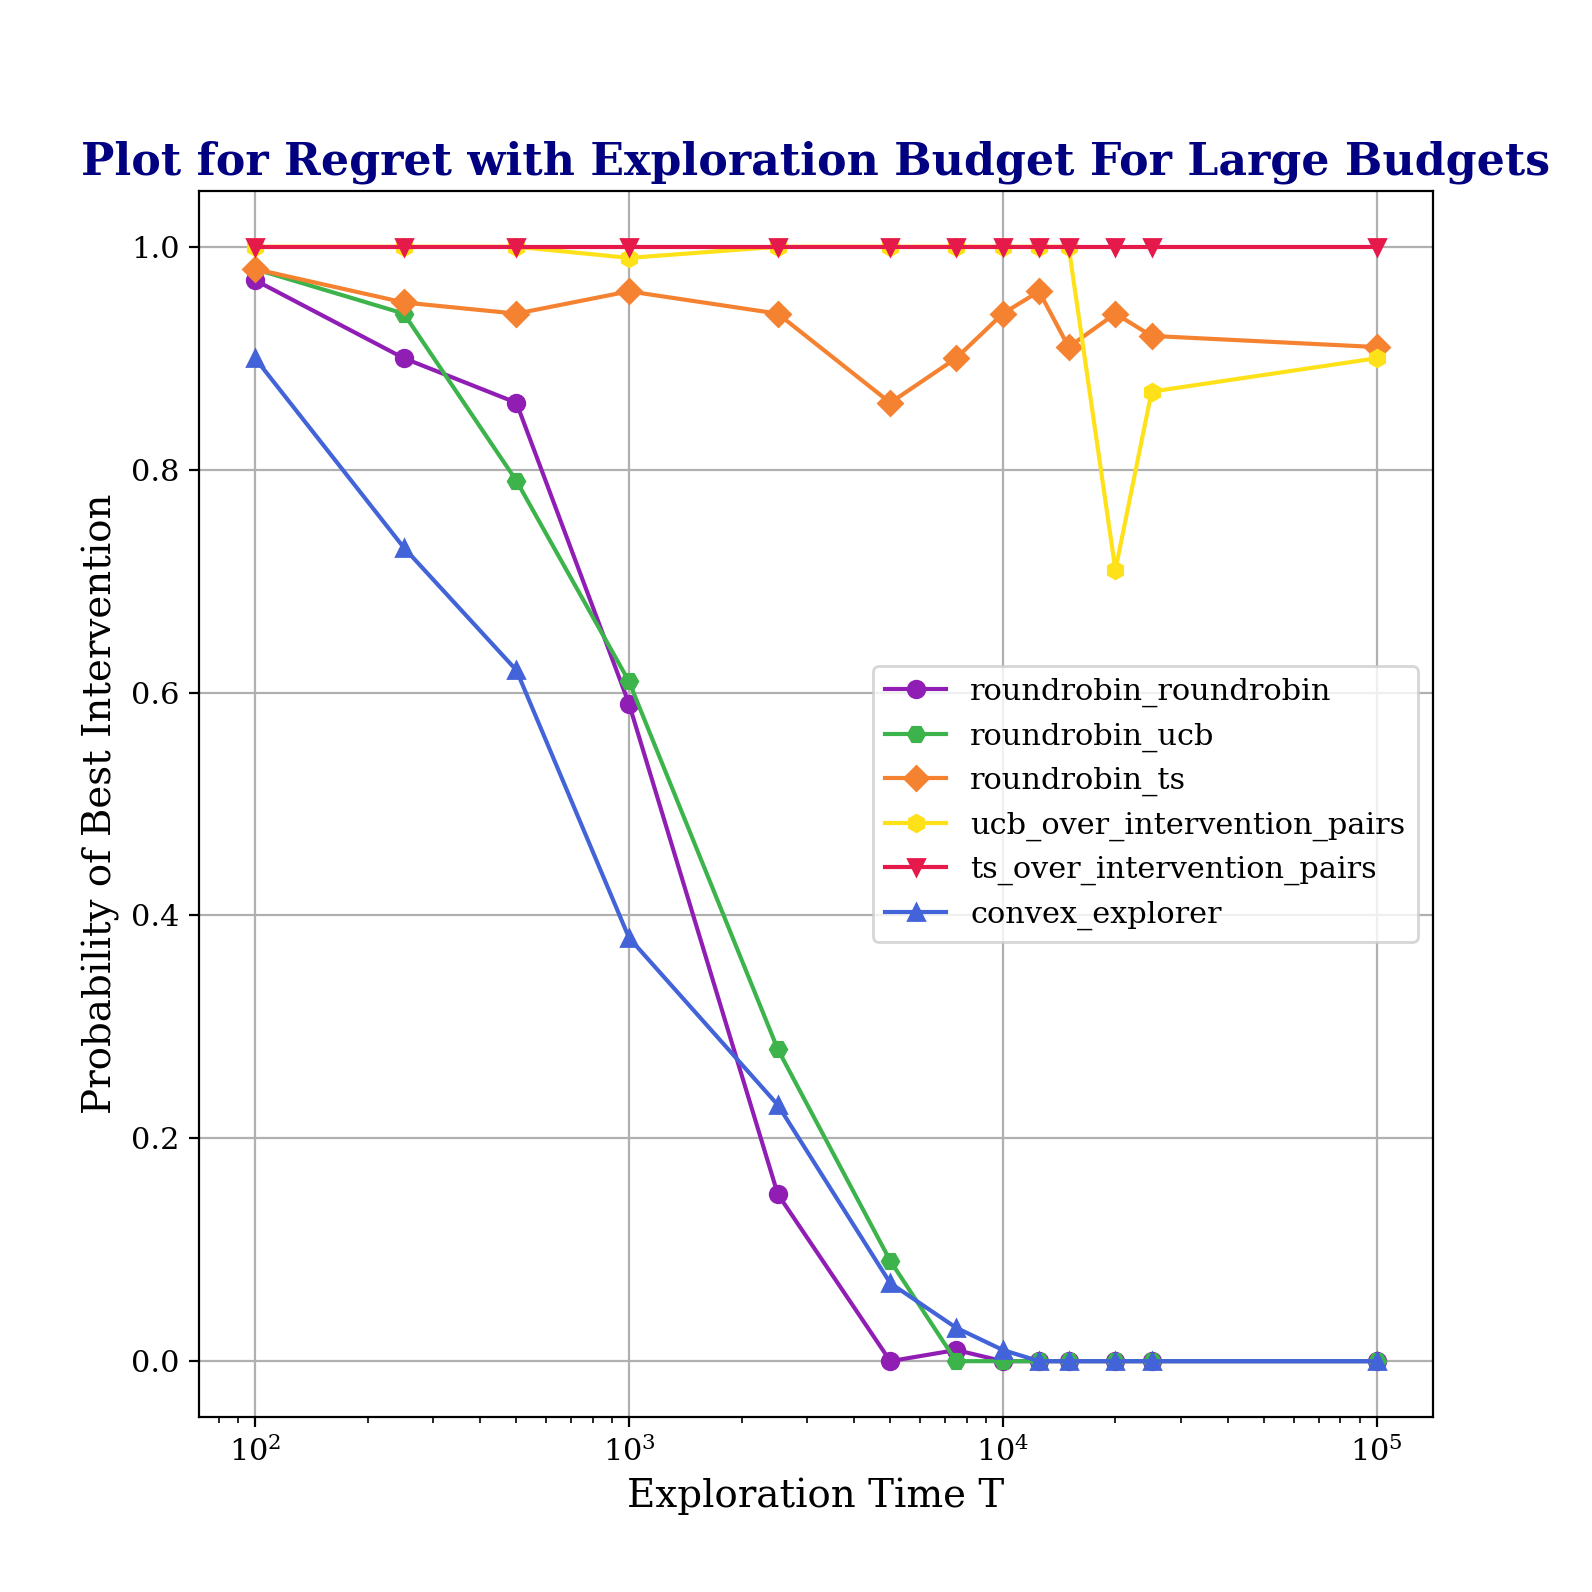
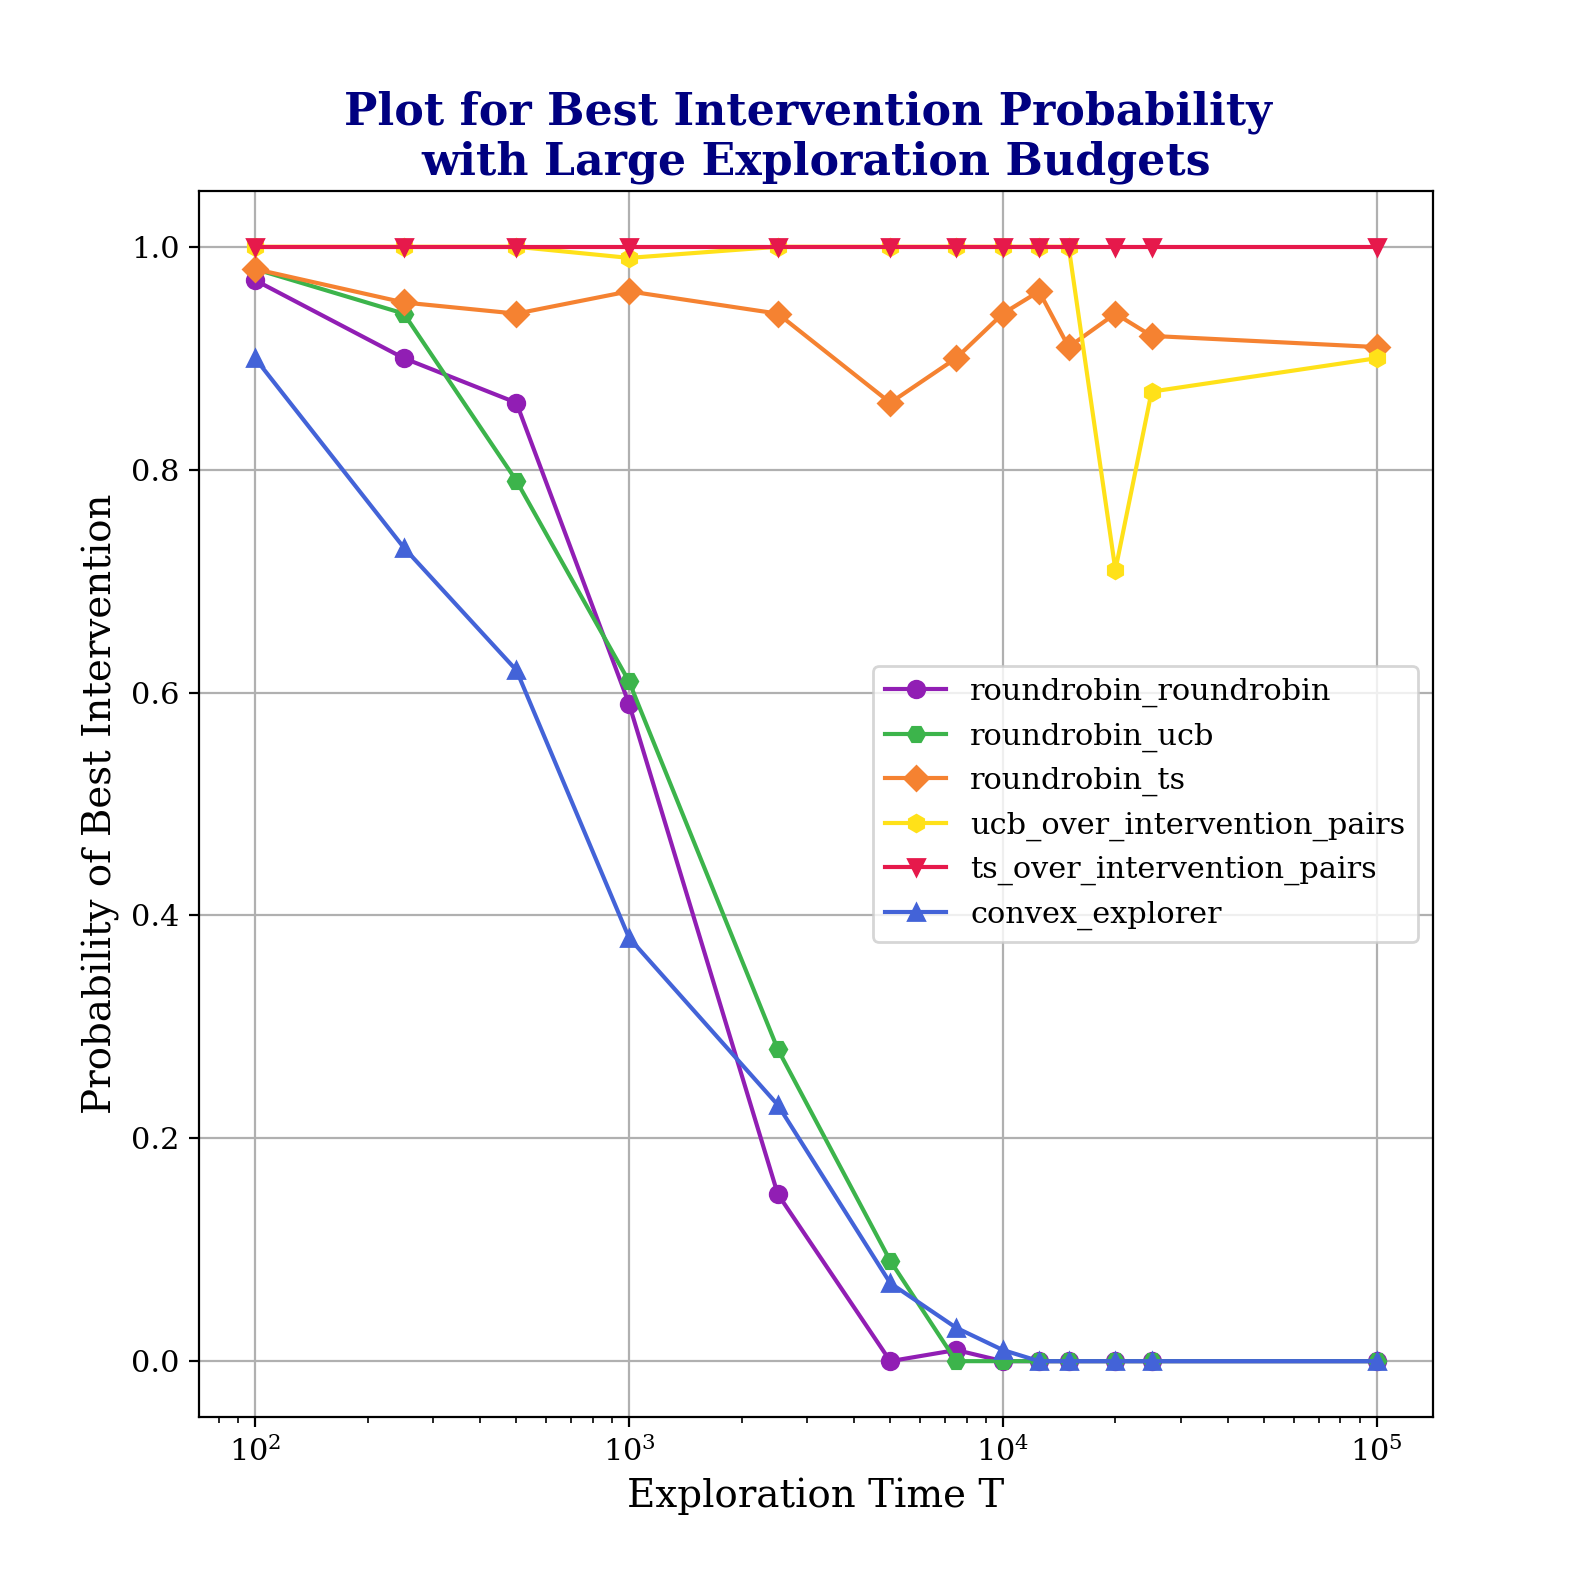
modified plots

Changed region(s): [[0.0308, 0.0616, 0.9849, 0.1231]]

diff --git a/run_plotters.py b/run_plotters.py
@@ -11,7 +11,7 @@ if __name__ == "__main__":
                                 x_axis_label_in_data="exploration_budget",
                                 label_x_axis='Exploration Time T',
                                 label_y_axis='Probability of Best Intervention',
-                                plot_title='Plot for Regret with Exploration Budget',
+                                plot_title='Plot for Best Intervention Probability \nwith Exploration Budget',
                                 figsize=(8, 8),
                                 font_family='serif', general_font_size=11, axes_label_font_size=14, title_font_size=16,
                                 markers=None,
@@ -22,7 +22,7 @@ if __name__ == "__main__":
                                 x_axis_label_in_data="exploration_budget",
                                 label_x_axis='Exploration Time T',
                                 label_y_axis='Probability of Best Intervention',
-                                plot_title='Plot for Regret with Exploration Budget \nwith Deterministic Transitions',
+                                plot_title='Plot for Best Intervention Probability with \nExploration Budget and Deterministic Transitions',
                                 figsize=(8, 8),
                                 font_family='serif', general_font_size=11, axes_label_font_size=14, title_font_size=16,
                                 markers=None,
@@ -33,7 +33,7 @@ if __name__ == "__main__":
                                 x_axis_label_in_data="diff_in_best_reward",
                                 label_x_axis='Difference in Best Reward R',
                                 label_y_axis='Probability of Best Intervention',
-                                plot_title='Plot for Regret with Difference in Best Reward',
+                                plot_title='Plot for Best Intervention Probability \nwith Difference in Best Reward',
                                 figsize=(8, 8),
                                 font_family='serif', general_font_size=11, axes_label_font_size=14, title_font_size=16,
                                 markers=None,
@@ -44,7 +44,7 @@ if __name__ == "__main__":
                                 x_axis_label_in_data="diff_in_best_reward",
                                 label_x_axis='Difference in Best Reward R',
                                 label_y_axis='Probability of Best Intervention',
-                                plot_title='Plot for Regret with Difference in Best Reward \nwith Deterministic Transitions',
+                                plot_title='Plot for Best Intervention Probability with Difference \nin Best Reward and Deterministic Transitions',
                                 figsize=(8, 8),
                                 font_family='serif', general_font_size=11, axes_label_font_size=14, title_font_size=16,
                                 markers=None,
@@ -55,7 +55,7 @@ if __name__ == "__main__":
                                 x_axis_label_in_data="exploration_budget",
                                 label_x_axis='Exploration Time T',
                                 label_y_axis='Probability of Best Intervention',
-                                plot_title='Plot for Regret with Exploration Budget For Large Budgets',
+                                plot_title='Plot for Best Intervention Probability \nwith Large Exploration Budgets',
                                 figsize=(8, 8),
                                 font_family='serif', general_font_size=11, axes_label_font_size=14, title_font_size=16,
                                 markers=None,
@@ -66,7 +66,7 @@ if __name__ == "__main__":
         x_axis_label_in_data="exploration_budget",
         label_x_axis='Exploration Time T',
         label_y_axis='Probability of Best Intervention',
-        plot_title='Plot for Regret with Exploration Budget For Large Budgets \nwith Deterministic Transitions',
+        plot_title='Plot for Best Intervention Probability with Large \nExploration Budgets and Deterministic Transitions',
         figsize=(8, 8),
         font_family='serif', general_font_size=11, axes_label_font_size=14, title_font_size=16,
         markers=None,
@@ -77,7 +77,7 @@ if __name__ == "__main__":
                                 x_axis_label_in_data="lambda",
                                 label_x_axis='Lambda Value λ',
                                 label_y_axis='Probability of Best Intervention',
-                                plot_title='Plot for Regret with Instance Dependent Causal Parameter λ',
+                                plot_title='Plot for Best Intervention Probability \nwith Instance Dependent Causal Parameter λ',
                                 figsize=(8, 8),
                                 font_family='serif', general_font_size=11, axes_label_font_size=14, title_font_size=16,
                                 markers=None,
@@ -87,7 +87,7 @@ if __name__ == "__main__":
                                 x_axis_label_in_data="lambda",
                                 label_x_axis='Lambda Value λ',
                                 label_y_axis='Probability of Best Intervention',
-                                plot_title='Plot for Regret with Instance Dependent Causal Parameter λ \nwith Deterministic Transitions',
+                                plot_title='Plot for Best Intervention Probability with Instance \nDependent Causal Parameter λ and Deterministic Transitions',
                                 figsize=(8, 8),
                                 font_family='serif', general_font_size=11, axes_label_font_size=14, title_font_size=16,
                                 markers=None,
@@ -98,7 +98,7 @@ if __name__ == "__main__":
                                 x_axis_label_in_data="num_intermediate_contexts",
                                 label_x_axis='Number of Intermediate Contexts',
                                 label_y_axis='Probability of Best Intervention',
-                                plot_title='Plot for Regret with Number of Intermediate Contexts',
+                                plot_title='Plot for Best Intervention Probability \nwith Number of Intermediate Contexts',
                                 figsize=(8, 8),
                                 font_family='serif', general_font_size=11, axes_label_font_size=14, title_font_size=16,
                                 markers=None,
@@ -108,7 +108,7 @@ if __name__ == "__main__":
                                 x_axis_label_in_data="num_intermediate_contexts",
                                 label_x_axis='Number of Intermediate Contexts',
                                 label_y_axis='Probability of Best Intervention',
-                                plot_title='Plot for Regret with Number of Intermediate Contexts \nwith Deterministic Transitions',
+                                plot_title='Plot for Best Intervention Probability with Number of \nIntermediate Contexts and Deterministic Transitions',
                                 figsize=(8, 8),
                                 font_family='serif', general_font_size=11, axes_label_font_size=14, title_font_size=16,
                                 markers=None,
@@ -125,7 +125,7 @@ if __name__ == "__main__":
                                                          label_x_axis='Exploration Time T',
                                                          label_y_axis='Probability of Best Intervention',
                                                          plot_title='Plot for Regret with Exploration Budget',
-                                                         plot_title2='Plot for Regret with Exploration Budget \nwith Deterministic Transitions',
+                                                         plot_title2='Plot for Regret with Exploration Budget \nand Deterministic Transitions',
                                                          figsize=(16, 8),
                                                          font_family='serif', general_font_size=11,
                                                          axes_label_font_size=14, title_font_size=16,
@@ -139,7 +139,7 @@ if __name__ == "__main__":
                                                          label_x_axis='Difference in Best Reward R',
                                                          label_y_axis='Probability of Best Intervention',
                                                          plot_title='Plot for Regret with Difference in Best Reward',
-                                                         plot_title2='Plot for Regret with Difference in Best Reward \nwith Deterministic Transitions',
+                                                         plot_title2='Plot for Regret with Difference in Best Reward \nand Deterministic Transitions',
                                                          figsize=(16, 8),
                                                          font_family='serif', general_font_size=11,
                                                          axes_label_font_size=14, title_font_size=16,
@@ -154,9 +154,10 @@ if __name__ == "__main__":
         label_x_axis='Exploration Time T',
         label_y_axis='Probability of Best Intervention',
         plot_title='Plot for Regret with Exploration Budget \nFor Large Budgets',
-        plot_title2='Plot for Regret with Instance Dependent \nFor Large Budgets with Deterministic Transitions',
+        plot_title2='Plot for Regret with Instance Dependent \nFor Large Budgets and Deterministic Transitions',
         figsize=(16, 8),
-        font_family='serif', general_font_size=11, axes_label_font_size=14, title_font_size=16,
+        font_family='serif', general_font_size=11,
+        axes_label_font_size=14, title_font_size=16,
         markers=None,
         xscale='log')
 
@@ -167,7 +168,7 @@ if __name__ == "__main__":
                                                          label_x_axis='Lambda Value λ',
                                                          label_y_axis='Probability of Best Intervention',
                                                          plot_title='Plot for Regret with Instance Dependent \nCausal Parameter λ',
-                                                         plot_title2='Plot for Regret with Instance Dependent \nCausal Parameter λ with Deterministic Transitions',
+                                                         plot_title2='Plot for Regret with Instance Dependent \nCausal Parameter λ and Deterministic Transitions',
                                                          figsize=(16, 8),
                                                          font_family='serif', general_font_size=11,
                                                          axes_label_font_size=14, title_font_size=16,
@@ -182,7 +183,7 @@ if __name__ == "__main__":
         label_x_axis='Number of Intermediate Contexts',
         label_y_axis='Probability of Best Intervention',
         plot_title='Plot for Regret with Number of Intermediate Contexts',
-        plot_title2='Plot for Regret with Number of Intermediate Contexts \nwith Deterministic Transitions',
+        plot_title2='Plot for Regret with Number of Intermediate Contexts \nand Deterministic Transitions',
         figsize=(16, 8),
         font_family='serif', general_font_size=11, axes_label_font_size=14, title_font_size=16,
         markers=None,
@@ -207,7 +208,7 @@ if __name__ == "__main__":
                                 x_axis_label_in_data="exploration_budget",
                                 label_x_axis='Exploration Budget T',
                                 label_y_axis='Simple Regret',
-                                plot_title='Plot for Simple Regret with Exploration Budget \nwith Deterministic Transitions',
+                                plot_title='Plot for Simple Regret with Exploration Budget \nand Deterministic Transitions',
                                 figsize=(8, 8),
                                 font_family='serif', general_font_size=11, axes_label_font_size=14, title_font_size=16,
                                 markers=None,
@@ -229,7 +230,7 @@ if __name__ == "__main__":
                                 x_axis_label_in_data="diff_in_best_reward",
                                 label_x_axis='Difference in Best Reward R',
                                 label_y_axis='Simple Regret',
-                                plot_title='Plot for Simple Regret with Difference in Best Reward \nwith Deterministic Transitions',
+                                plot_title='Plot for Simple Regret with Difference in Best Reward \nand Deterministic Transitions',
                                 figsize=(8, 8),
                                 font_family='serif', general_font_size=11, axes_label_font_size=14, title_font_size=16,
                                 markers=None,
@@ -251,7 +252,7 @@ if __name__ == "__main__":
         x_axis_label_in_data="exploration_budget",
         label_x_axis='Exploration Time T',
         label_y_axis='Simple Regret',
-        plot_title='Plot for Simple Regret with Exploration Budget \nFor Large Budgets with Deterministic Transitions',
+        plot_title='Plot for Simple Regret with Exploration Budget \nFor Large Budgets and Deterministic Transitions',
         figsize=(8, 8),
         font_family='serif', general_font_size=11, axes_label_font_size=14, title_font_size=16,
         markers=None,
@@ -262,7 +263,7 @@ if __name__ == "__main__":
                                 x_axis_label_in_data="lambda",
                                 label_x_axis='Lambda Value λ',
                                 label_y_axis='Simple Regret',
-                                plot_title='Plot for Simple Regret with Instance Dependent Causal Parameter λ',
+                                plot_title='Plot for Simple Regret \nwith Instance Dependent Causal Parameter λ',
                                 figsize=(8, 8),
                                 font_family='serif', general_font_size=11, axes_label_font_size=14, title_font_size=16,
                                 markers=None,
@@ -272,7 +273,7 @@ if __name__ == "__main__":
                                 x_axis_label_in_data="lambda",
                                 label_x_axis='Lambda Value λ',
                                 label_y_axis='Simple Regret',
-                                plot_title='Plot for Simple Regret with Instance Dependent Causal Parameter λ \nwith Deterministic Transitions',
+                                plot_title='Plot for Simple Regret with Instance Dependent \nCausal Parameter λ and Deterministic Transitions',
                                 figsize=(8, 8),
                                 font_family='serif', general_font_size=11, axes_label_font_size=14, title_font_size=16,
                                 markers=None,
@@ -293,7 +294,7 @@ if __name__ == "__main__":
                                 x_axis_label_in_data="num_intermediate_contexts",
                                 label_x_axis='Number of Intermediate Contexts',
                                 label_y_axis='Simple Regret',
-                                plot_title='Plot for Simple Regret with Number of Intermediate Contexts \nwith Deterministic Transitions',
+                                plot_title='Plot for Simple Regret with Number of Intermediate Contexts \nand Deterministic Transitions',
                                 figsize=(8, 8),
                                 font_family='serif', general_font_size=11, axes_label_font_size=14, title_font_size=16,
                                 markers=None,
